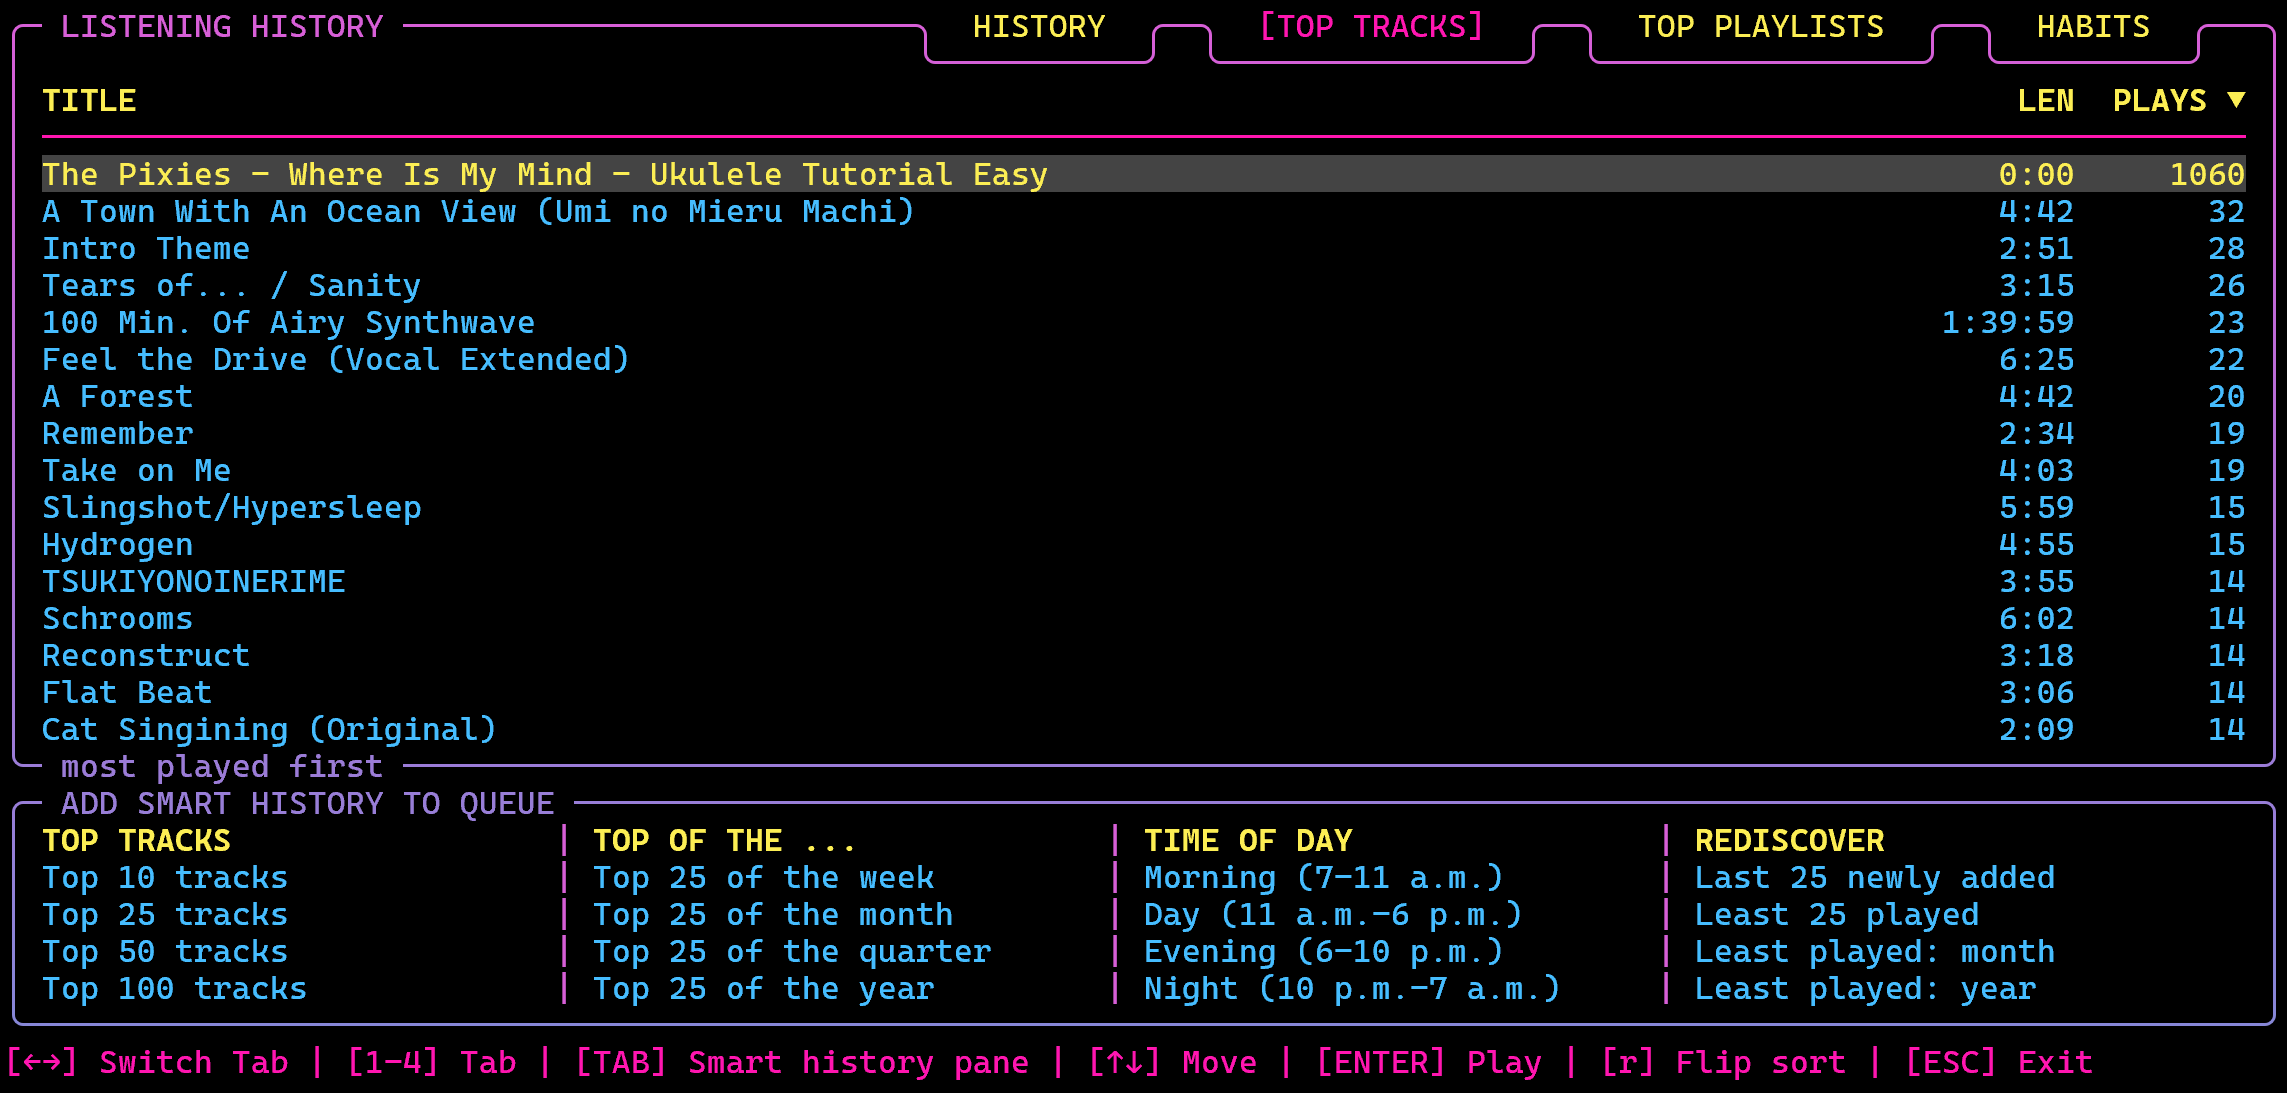
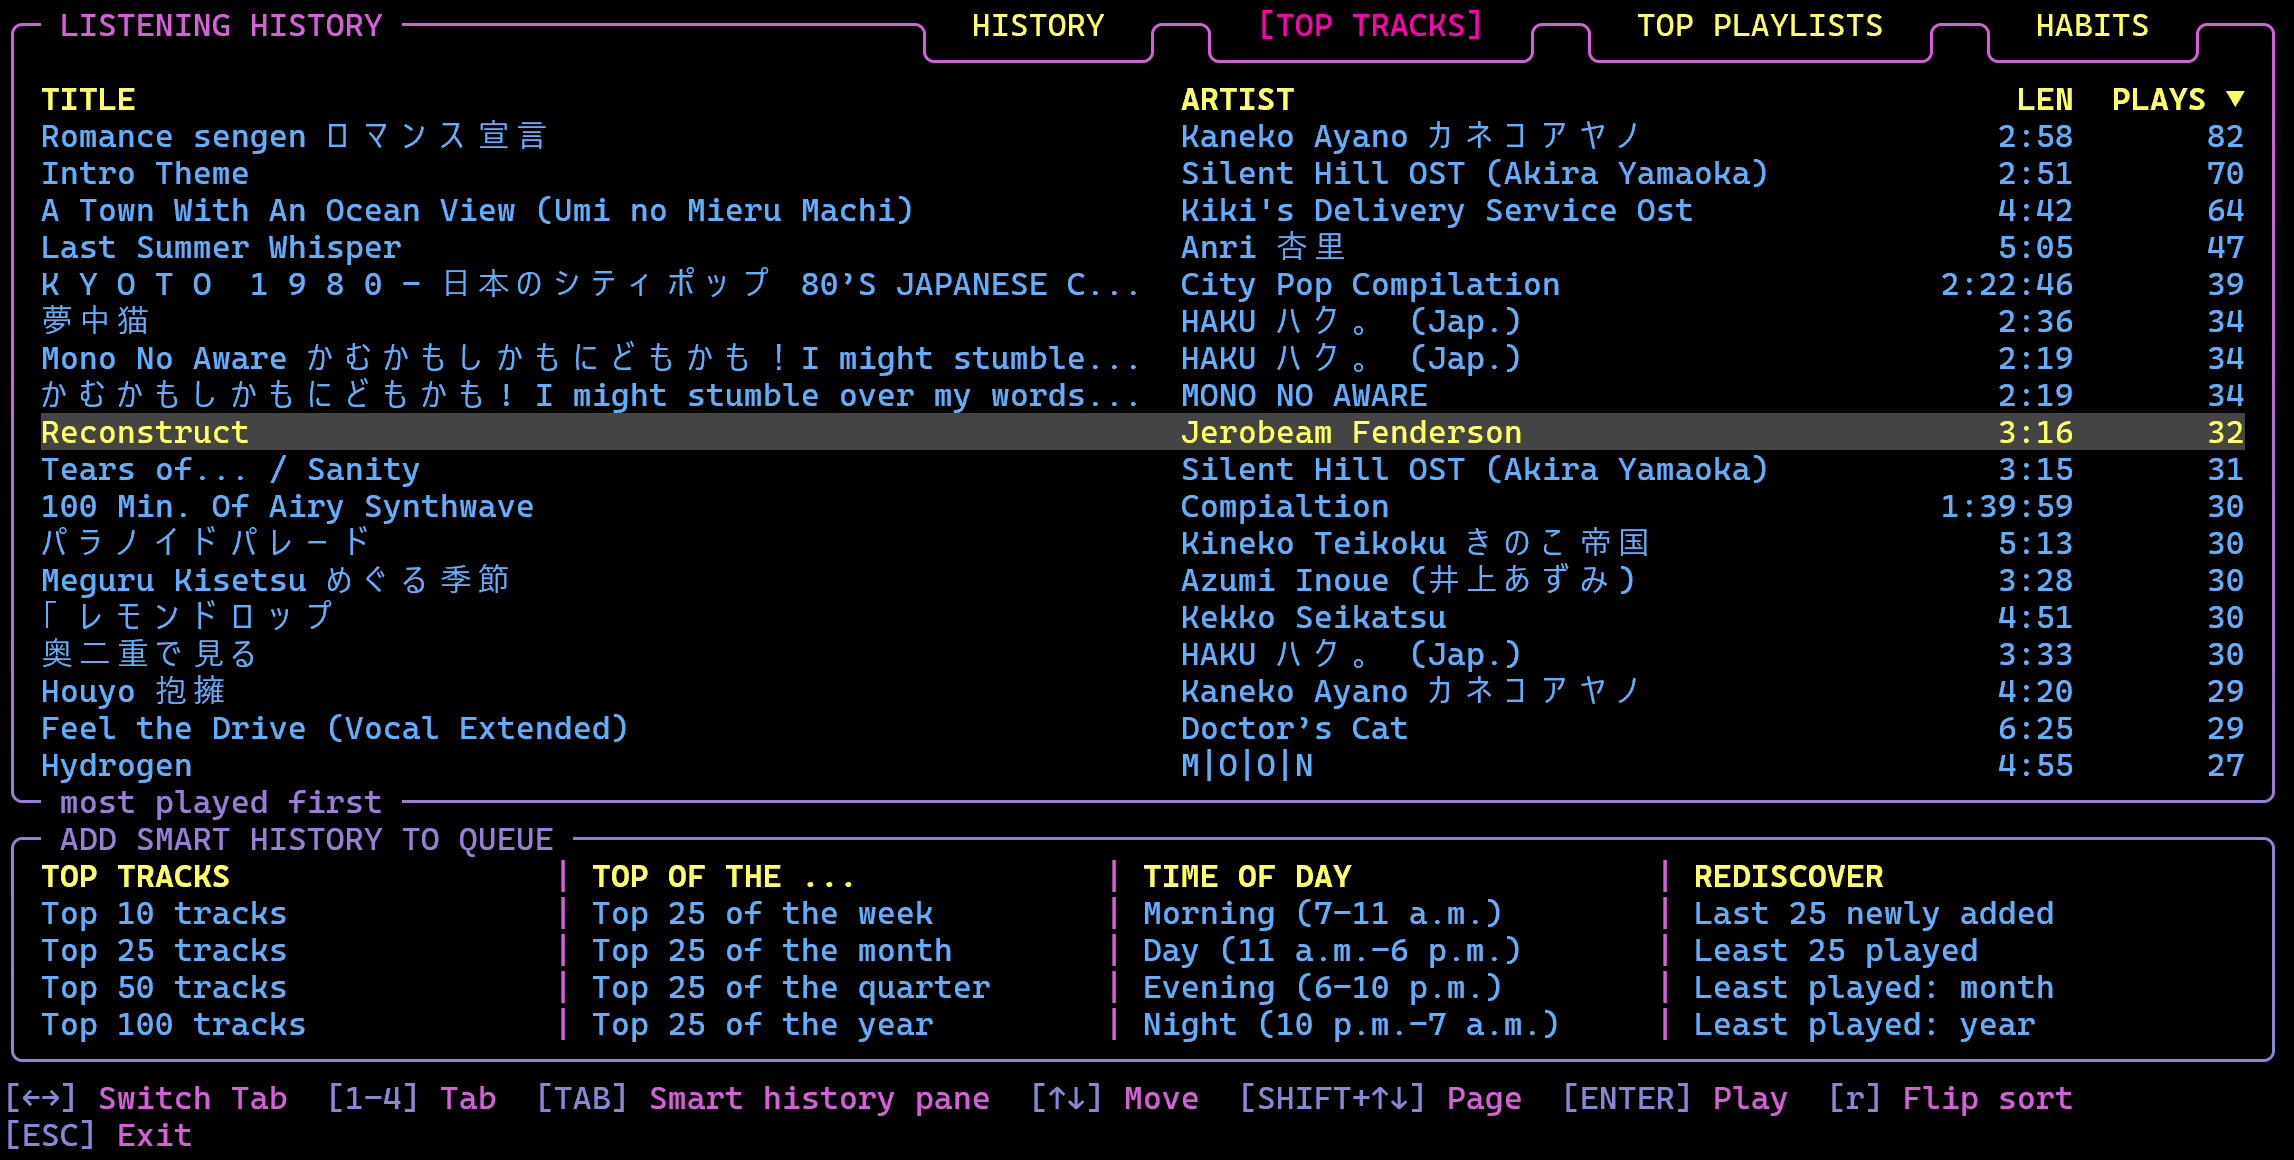
readme image adjustment

Changed region(s): [[0.0, 0.0, 1.0, 0.9954]]

diff --git a/README.md b/README.md
@@ -95,8 +95,6 @@ Everything below is in the current version (v4.7.0) and works the same on Window
 
 ### Music player
 
-<p align="center"><img width="850" alt="The main screen of the music player (theme SeriousMeowerShell(Default))" src="readme_images/theme_default.png" /></p>
-
 - **Local library** from as many folders as you like (MP3, FLAC, WAV, ALAC, M4A, OGG, OPUS, AAC, tracker modules, console and C64 music ...), sorted by folder, title, artist or length, with **fuzzy search** over file names and tags (`/` and the prefixes `/a:` artist, `/r:` ... ).
 - **Online:** search, stream and **download** from YouTube, SoundCloud and Bandcamp (yt-dlp), whole YouTube playlists in one go (bulk add), with a shared download archive.
 - **Queue** with lock, undo and "save as playlist", big list / folder / queue overlays (the queue overlay has its own search bar), play modes list, repeat, shuffle, stop and queue-then-stop, and a shuffle-next key.
@@ -120,9 +118,8 @@ Everything below is in the current version (v4.7.0) and works the same on Window
 - **Spectrogram** in the field, over the whole screen (`SHIFT+u`) and in its own window (`(`), with its own options (`SHIFT+i`).
 - **Lyric sphere** and **spectrum bars**; the visualization field cycles with `.`.
 
-<p align="center"><img width="850" alt="The spectrogram in the visualization field (theme Lavender Haze)" src="readme_images/theme_lavender_haze.png" /></p>
 <p align="center"><img width="850" alt="The spectrogram in image mode in the visualization field, both channels" src="readme_images/spectrogram_inapp.png" /></p>
-<p align="center"><img width="850" alt="The spectrogram over the whole screen" src="readme_images/spectro_full.png" /></p>
+
 <p align="center"><img width="850" alt="The spectrogram in image mode over the whole screen, both channels (theme Tokyo Night)" src="readme_images/spectro_image.png" /></p>
 
 ### Lyrics and Karaoke mode
